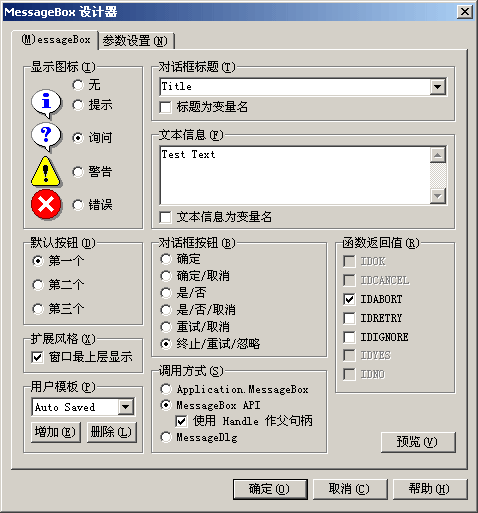
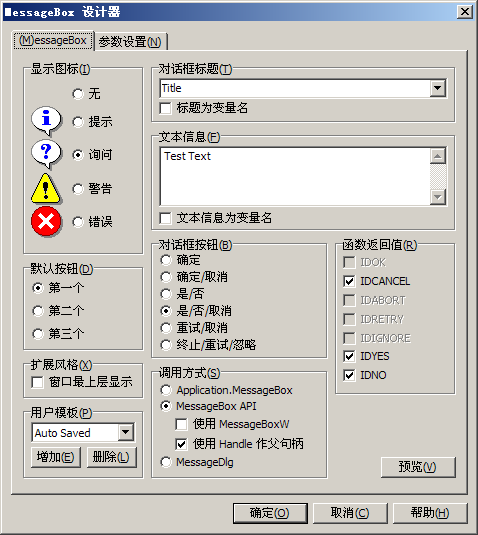
* [Help] Update Help Files.

Changed region(s): [[0.0, 0.0, 0.9958, 0.9981], [0.9372, 0.0, 0.9958, 0.0624]]

diff --git a/cnwizards/Help/CnWizards_ENU/wizards/msgboxwizards.htm b/cnwizards/Help/CnWizards_ENU/wizards/msgboxwizards.htm
@@ -41,6 +41,8 @@
   <li>
   <p class="text" align="left"><b>Procedure to Use</b>: Which procedure will be used for implemetation. Both MessageBox and MessageDlg supported.</li>
   <li>
+  <p class="text" align="left"><b>Use MessageBoxW</b>: Use Unicode version API.</li>
+  <li>
   <p class="text" align="left"><b>Uses Handle as Parent</b>: If this was selected,  Handle will be the first parameter in MessageBox API, otherwise 0 will be used.</li>
   <li>
   <p class="text" align="left"><b>Preview</b>: Preview the designed message dialog.</li>

diff --git a/cnwizards/Help/CnWizards_ENU/other/credits.htm b/cnwizards/Help/CnWizards_ENU/other/credits.htm
@@ -798,7 +798,7 @@ Supporters</p>
   muroachanf, YuZhongXue, tahhkj, laiguorong, XiaoXia, Authur, IISUSER,
   space, moremay, BuYeRen, jtdd, rise, zhuojianyou, XiaoMao, Derod, YaLaXiangBo,
   takaya, Vair, XieEDeHelloWorld, YanZhaoCun, xiongzhifei, FanXianYi, SongDongli, mysluo,
-  XiaoFan, wuyunnet, chinaplaycar, zmguozi, junhome, Learu, xqzhle</td>
+  XiaoFan, wuyunnet, chinaplaycar, zmguozi, junhome, Learu, xqzhle, Lei Jingtang</td>
   </tr>
   <tr> 
     <td width="82" class="tabletext">Poland</td>
